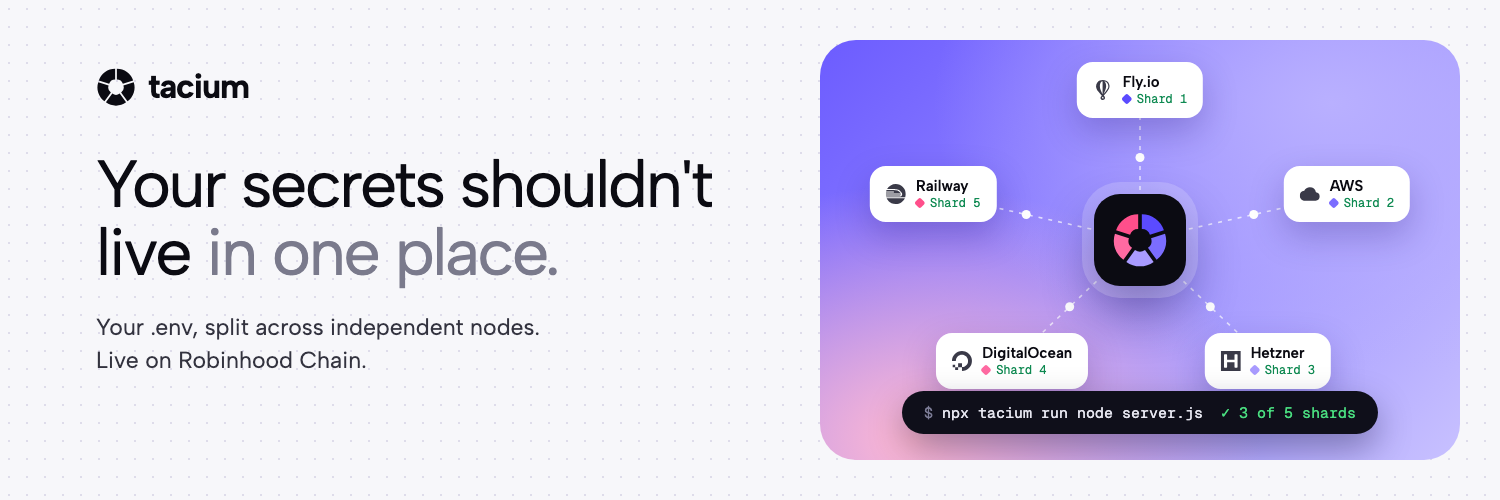
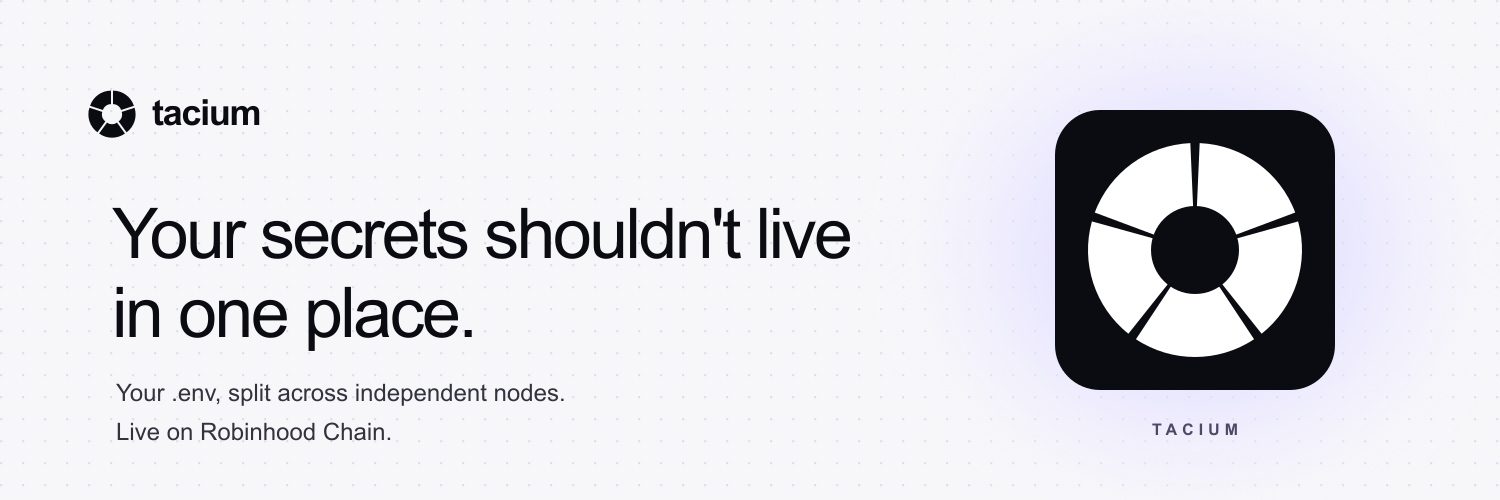
Update Tacium brand assets and footer links

diff --git a/brand/banner.html b/brand/banner.html
@@ -1,57 +1,10 @@
-<!doctype html><html><head><meta charset="utf-8"><link href="https://fonts.googleapis.com/css2?family=Albert+Sans:wght@400;500;600;700&family=Geist+Mono:wght@400;500&display=block" rel="stylesheet"><style>
-*{margin:0;padding:0;box-sizing:border-box}
-html,body{width:1500px;height:500px;overflow:hidden}
-body{font-family:'Albert Sans',sans-serif;color:#0b0b12;background:#f7f7fa;
-  background-image:radial-gradient(#dedcea 1.2px,transparent 1.2px);background-size:18px 18px;position:relative}
-.left{position:absolute;left:96px;top:66px;width:680px}
-.logo{display:flex;align-items:center;gap:12px}
-.logo span{font-size:34px;font-weight:700;letter-spacing:-1.2px}
-h1{margin-top:44px;font-size:66px;line-height:1.03;font-weight:400;letter-spacing:-0.035em}
-h1 em{font-style:normal;color:#7a7a8c}
-p{margin-top:24px;font-size:23px;line-height:1.45;color:#33333f;max-width:600px}
-.panel{position:absolute;right:40px;top:40px;width:640px;height:420px;border-radius:36px;overflow:hidden;
-  background:radial-gradient(ellipse at 80% 15%,#b9b0ff 0%,transparent 55%),radial-gradient(ellipse at 15% 95%,#ffb8d2 0%,transparent 45%),linear-gradient(135deg,#6c5cff 0%,#9b8fff 55%,#c8c1ff 100%)}
-.panel svg.net{position:absolute;inset:0}
-.core{position:absolute;left:320px;top:200px;translate:-50% -50%;width:92px;height:92px;border-radius:26px;background:#0b0b12;
-  display:flex;align-items:center;justify-content:center;box-shadow:0 0 0 12px rgba(255,255,255,.18),0 24px 50px rgba(20,10,80,.45)}
-.chip{position:absolute;translate:-50% -50%;display:flex;align-items:center;gap:10px;background:#fff;border-radius:16px;padding:11px 16px;
-  box-shadow:0 14px 34px rgba(30,15,110,.25);white-space:nowrap}
-.chip b{display:block;font-size:15px;font-weight:600}
-.chip small{display:flex;align-items:center;gap:6px;font-size:12px;color:#0f8a52;font-family:'Geist Mono',monospace}
-.chip small i{width:8px;height:8px;border-radius:2px;rotate:45deg;display:block}
-.cmd{position:absolute;left:50%;bottom:26px;translate:-50% 0;background:#0f0f1a;color:#e6e6f0;font-family:'Geist Mono',monospace;font-size:15px;
-  padding:12px 22px;border-radius:999px;box-shadow:0 14px 34px rgba(10,5,40,.35);white-space:nowrap}
-.cmd span{color:#7c7c96}.cmd i{color:#4ade80;font-style:normal}
-</style></head><body>
-<div class="left">
-  <div class="logo"><svg viewBox="-14 -14 28 28" width="40" height="40"><path d="M0.617 -12.849 A12 12 0 0 1 12.030 -4.558 L4.802 -2.209 A4.4 4.4 0 0 0 0.617 -5.249 Z" fill="#0b0b12"/><path d="M12.411 -3.384 A12 12 0 0 1 8.052 10.033 L3.585 3.884 A4.4 4.4 0 0 0 5.183 -1.035 Z" fill="#0b0b12"/><path d="M7.053 10.758 A12 12 0 0 1 -7.053 10.758 L-2.586 4.610 A4.4 4.4 0 0 0 2.586 4.610 Z" fill="#0b0b12"/><path d="M-8.052 10.033 A12 12 0 0 1 -12.411 -3.384 L-5.183 -1.035 A4.4 4.4 0 0 0 -3.585 3.884 Z" fill="#0b0b12"/><path d="M-12.030 -4.558 A12 12 0 0 1 -0.617 -12.849 L-0.617 -5.249 A4.4 4.4 0 0 0 -4.802 -2.209 Z" fill="#0b0b12"/></svg><span>tacium</span></div>
-  <h1>Your secrets shouldn't live <em>in one place.</em></h1>
-  <p>Your .env, split across independent nodes.<br>Live on Robinhood Chain.</p>
-</div>
-<div class="panel">
-  <svg class="net" width="640" height="420"><line x1="320" y1="200" x2="320" y2="50" stroke="rgba(255,255,255,.7)" stroke-width="1.6" stroke-dasharray="4 6"/><line x1="320" y1="200" x2="526.8547922941959" y2="153.6474508437579" stroke="rgba(255,255,255,.7)" stroke-width="1.6" stroke-dasharray="4 6"/><line x1="320" y1="200" x2="447.8432923736129" y2="321.3525491562421" stroke="rgba(255,255,255,.7)" stroke-width="1.6" stroke-dasharray="4 6"/><line x1="320" y1="200" x2="192.15670762638712" y2="321.3525491562421" stroke="rgba(255,255,255,.7)" stroke-width="1.6" stroke-dasharray="4 6"/><line x1="320" y1="200" x2="113.14520770580413" y2="153.64745084375784" stroke="rgba(255,255,255,.7)" stroke-width="1.6" stroke-dasharray="4 6"/><circle cx="320" cy="117.5" r="4.5" fill="#fff"/><circle cx="433.77013576180775" cy="174.50609796406684" r="4.5" fill="#fff"/><circle cx="390.3138108054871" cy="266.74390203593316" r="4.5" fill="#fff"/><circle cx="249.6861891945129" cy="266.74390203593316" r="4.5" fill="#fff"/><circle cx="206.22986423819225" cy="174.5060979640668" r="4.5" fill="#fff"/></svg>
-  <div class="core"><svg viewBox="-16 -16 32 32" width="62" height="62"><path d="M0.940 -13.294 A12 12 0 0 1 12.353 -5.003 L5.125 -2.654 A4.4 4.4 0 0 0 0.940 -5.694 Z" fill="#5b4bff"/><path d="M12.934 -3.214 A12 12 0 0 1 8.575 10.203 L4.108 4.054 A4.4 4.4 0 0 0 5.706 -0.865 Z" fill="#7b6dff"/><path d="M7.053 11.308 A12 12 0 0 1 -7.053 11.308 L-2.586 5.160 A4.4 4.4 0 0 0 2.586 5.160 Z" fill="#a99bff"/><path d="M-8.575 10.203 A12 12 0 0 1 -12.934 -3.214 L-5.706 -0.865 A4.4 4.4 0 0 0 -4.108 4.054 Z" fill="#ff6aa2"/><path d="M-12.353 -5.003 A12 12 0 0 1 -0.940 -13.294 L-0.940 -5.694 A4.4 4.4 0 0 0 -5.125 -2.654 Z" fill="#ff4f8b"/></svg></div>
-  
-  <div class="chip" style="left:320px;top:50px">
-    <svg viewBox="0 0 24 24" width="20" height="20"><path d="M11.987 0c-2.45-.01-5.002.925-6.541 2.897-1.17 1.502-1.664 3.474-1.49 5.356.29 2.112 1.476 3.96 2.676 5.672a41.5 41.5 0 0 0 4.216 4.831c-1.063.832-1.943 2.286-1.357 3.644.821 2.32 4.665 2.05 5.122-.372.39-1.288-.694-2.533-1.428-3.309 2.388-2.431 4.706-5.036 6.17-8.145.595-1.32.902-2.802.614-4.24-.28-2.341-1.823-4.473-3.967-5.46C14.76.266 13.364.016 11.987 0m-.236 1.577v15.534C9.881 13.483 7.724 9.266 8.73 5.069c.35-1.539 1.253-3.309 3.02-3.492m1.996.04c1.534.357 3.031 1.096 3.906 2.48 1.3 1.93 1.318 4.55.1 6.521-1.268 2.395-3.06 4.463-4.916 6.415 1.472-2.974 3.074-6.106 3.182-9.5-.043-2.08-.438-4.612-2.272-5.916M11.97 20.103c.848.342 1.597 1.983.153 2.173-.664.15-1.367-.599-.995-1.222.213-.355.488-.73.842-.95" fill="#3a3a48"/></svg>
-    <div><b>Fly.io</b><small><i style="background:#5b4bff"></i>Shard 1</small></div>
-  </div>
-  <div class="chip" style="left:526.8547922941959px;top:153.6474508437579px">
-    <svg viewBox="0 0 24 24" width="20" height="20"><path d="M19.35 10.04A7.49 7.49 0 0 0 12 4C9.11 4 6.6 5.64 5.35 8.04A5.994 5.994 0 0 0 0 14c0 3.31 2.69 6 6 6h13c2.76 0 5-2.24 5-5 0-2.64-2.05-4.78-4.65-4.96Z" fill="#3a3a48"/></svg>
-    <div><b>AWS</b><small><i style="background:#7b6dff"></i>Shard 2</small></div>
-  </div>
-  <div class="chip" style="left:447.8432923736129px;top:321.3525491562421px">
-    <svg viewBox="0 0 24 24" width="20" height="20"><path d="M0 0v24h24V0H0zm4.602 4.025h2.244c.509 0 .716.215.716.717v5.64h8.883v-5.64c0-.509.215-.717.717-.717h2.229c.5 0 .71.23.724.717v14.516c0 .509-.215.717-.717.717h-2.23c-.51 0-.717-.215-.717-.717v-5.735H7.562v5.735c0 .516-.215.717-.716.717H4.602c-.51 0-.717-.208-.717-.717V4.742c0-.509.207-.717.717-.717z" fill="#3a3a48"/></svg>
-    <div><b>Hetzner</b><small><i style="background:#a99bff"></i>Shard 3</small></div>
-  </div>
-  <div class="chip" style="left:192.15670762638712px;top:321.3525491562421px">
-    <svg viewBox="0 0 24 24" width="20" height="20"><path d="M12.04 0C5.408-.02.005 5.37.005 11.992h4.638c0-4.923 4.882-8.731 10.064-6.855a6.95 6.95 0 014.147 4.148c1.889 5.177-1.924 10.055-6.84 10.064v-4.61H7.391v4.623h4.61V24c7.86 0 13.967-7.588 11.397-15.83-1.115-3.59-3.985-6.446-7.575-7.575A12.8 12.8 0 0012.039 0zM7.39 19.362H3.828v3.564H7.39zm-3.563 0v-2.978H.85v2.978z" fill="#3a3a48"/></svg>
-    <div><b>DigitalOcean</b><small><i style="background:#ff6aa2"></i>Shard 4</small></div>
-  </div>
-  <div class="chip" style="left:113.14520770580413px;top:153.64745084375784px">
-    <svg viewBox="0 0 24 24" width="20" height="20"><path d="M.113 10.27A13.026 13.026 0 000 11.48h18.23c-.064-.125-.15-.237-.235-.347-3.117-4.027-4.793-3.677-7.19-3.78-.8-.034-1.34-.048-4.524-.048-1.704 0-3.555.005-5.358.01-.234.63-.459 1.24-.567 1.737h9.342v1.216H.113v.002zm18.26 2.426H.009c.02.326.05.645.094.961h16.955c.754 0 1.179-.429 1.315-.96zm-17.318 4.28s2.81 6.902 10.93 7.024c4.855 0 9.027-2.883 10.92-7.024H1.056zM11.988 0C7.5 0 3.593 2.466 1.531 6.108l4.75-.005v-.002c3.71 0 3.849.016 4.573.047l.448.016c1.563.052 3.485.22 4.996 1.364.82.621 2.007 1.99 2.712 2.965.654.902.842 1.94.396 2.934-.408.914-1.289 1.458-2.353 1.458H.391s.099.42.249.886h22.748A12.026 12.026 0 0024 12.005C24 5.377 18.621 0 11.988 0z" fill="#3a3a48"/></svg>
-    <div><b>Railway</b><small><i style="background:#ff4f8b"></i>Shard 5</small></div>
-  </div>
-  <div class="cmd"><span>$</span> npx tacium run node server.js &nbsp;<i>✓ 3 of 5 shards</i></div>
-</div>
-</body></html>
+<!doctype html>
+<html lang="en">
+<head>
+  <meta charset="utf-8">
+  <meta name="viewport" content="width=1500, initial-scale=1">
+  <title>Tacium X banner</title>
+  <style>html,body{margin:0;width:1500px;height:500px;overflow:hidden}img{display:block;width:1500px;height:500px}</style>
+</head>
+<body><img src="tacium-x-banner.svg" alt="Tacium X banner"></body>
+</html>

diff --git a/app/globals.css b/app/globals.css
@@ -492,15 +492,15 @@ code { font-family: var(--mono); font-size: 0.9em; background: #ecebff; padding:
 .cta p { margin: 22px auto 0; max-width: 480px; color: #3a3a48; line-height: 1.55; }
 
 /* footer */
-.footer { padding: 90px 24px 60px; }
-.footer-inner { max-width: 1120px; margin: 0 auto; display: grid; grid-template-columns: repeat(4, 1fr) 1.3fr; gap: 32px; }
-.footer-col h6 { font-size: 13px; font-weight: 600; margin-bottom: 14px; }
-.footer-col a { display: block; font-size: 13px; color: var(--muted); padding: 5px 0; }
-.footer-col a:hover { color: var(--ink); }
-.footer-brand { display: flex; flex-direction: column; align-items: flex-end; text-align: right; gap: 12px; }
-.footer-brand p { font-size: 14px; font-weight: 500; }
-.socials { display: flex; gap: 16px; font-size: 13px; margin-top: auto; }
-.footer-brand small { font-size: 12px; color: var(--muted); }
+.footer { padding: 72px 24px 36px; }
+.footer-inner { max-width: 1120px; margin: 0 auto; }
+.footer-brand { display: flex; align-items: center; justify-content: space-between; gap: 24px; }
+.footer-brand p { font-size: 14px; font-weight: 500; margin-top: 10px; color: var(--muted); }
+.footer-x { display: inline-flex; align-items: center; gap: 10px; font-size: 15px; font-weight: 600; }
+.footer-x span { font-size: 14px; font-weight: 400; color: var(--muted); }
+.footer-x:hover, .footer-x:hover span { color: var(--accent); }
+.footer-bottom { border-top: 1px solid var(--line); margin-top: 34px; padding-top: 18px; }
+.footer-bottom small { font-size: 12px; color: var(--muted); }
 
 /* responsive */
 @media (max-width: 1100px) {
@@ -534,8 +534,7 @@ code { font-family: var(--mono); font-size: 0.9em; background: #ecebff; padding:
   .feat-stage { min-height: 480px; border-radius: 28px; padding: 28px 16px; }
   .fc-row-main b { font-size: 32px; }
   .row-head { flex-direction: column; align-items: flex-start; }
-  .footer-inner { grid-template-columns: repeat(2, 1fr); }
-  .footer-brand { grid-column: 1 / -1; align-items: flex-start; text-align: left; }
+  .footer-brand { align-items: flex-start; }
 }
 
 /* ───────── motion ───────── */

diff --git a/components/Footer.tsx b/components/Footer.tsx
@@ -1,29 +1,34 @@
 import { Logo } from "./Logo";
 
-const cols: [string, string[]][] = [
-  ["Product", ["Secrets vault", "CLI", "JS SDK", "Python SDK", "Dashboard", "Onchain audit log", "TEE mode"]],
-  ["Use cases", ["Startups", "Web3 teams", "AI apps", "CI/CD", "Agencies"]],
-  ["Developers", ["Docs", "Quickstart", "Run a node", "Security", "Bug bounty"]],
-  ["Company", ["About", "Blog", "Contact", "Privacy policy", "Terms"]],
-];
-
 export default function Footer() {
   return (
     <footer className="footer">
       <div className="footer-inner">
-        {cols.map(([h, links]) => (
-          <div key={h} className="footer-col">
-            <h6>{h}</h6>
-            {links.map((l) => <a key={l} href="#">{l}</a>)}
-          </div>
-        ))}
         <div className="footer-brand">
-          <Logo />
-          <p>Your secrets, kept silent.</p>
-          <div className="socials">
-            <a href="#" aria-label="X">X</a>
-            <a href="#" aria-label="Docs">Docs</a>
+          <div>
+            <Logo />
+            <p>Your secrets, kept silent.</p>
           </div>
+          <a
+            className="footer-x"
+            href="https://x.com/taciumcloud"
+            target="_blank"
+            rel="noreferrer"
+            aria-label="Tacium on X"
+          >
+            X <span>x.com/taciumcloud</span>
+          </a>
+          <a
+            className="footer-x"
+            href="https://t.me/taciumcloud"
+            target="_blank"
+            rel="noreferrer"
+            aria-label="Tacium on Telegram"
+          >
+            Telegram <span>t.me/taciumcloud</span>
+          </a>
+        </div>
+        <div className="footer-bottom">
           <small>© 2026 Tacium · Live on Robinhood Chain</small>
         </div>
       </div>
